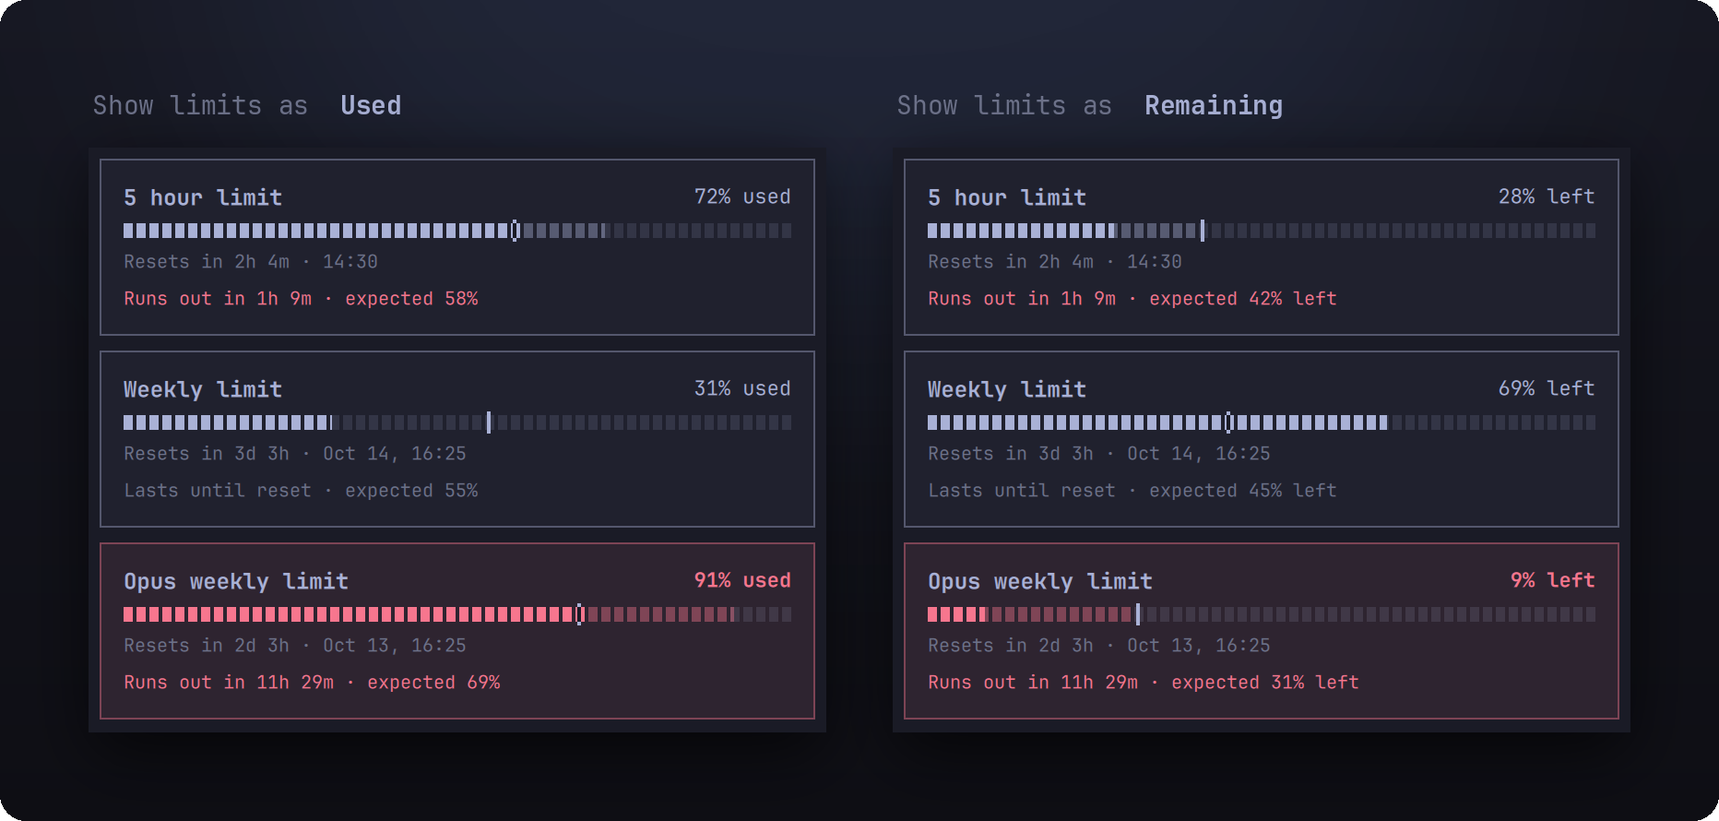
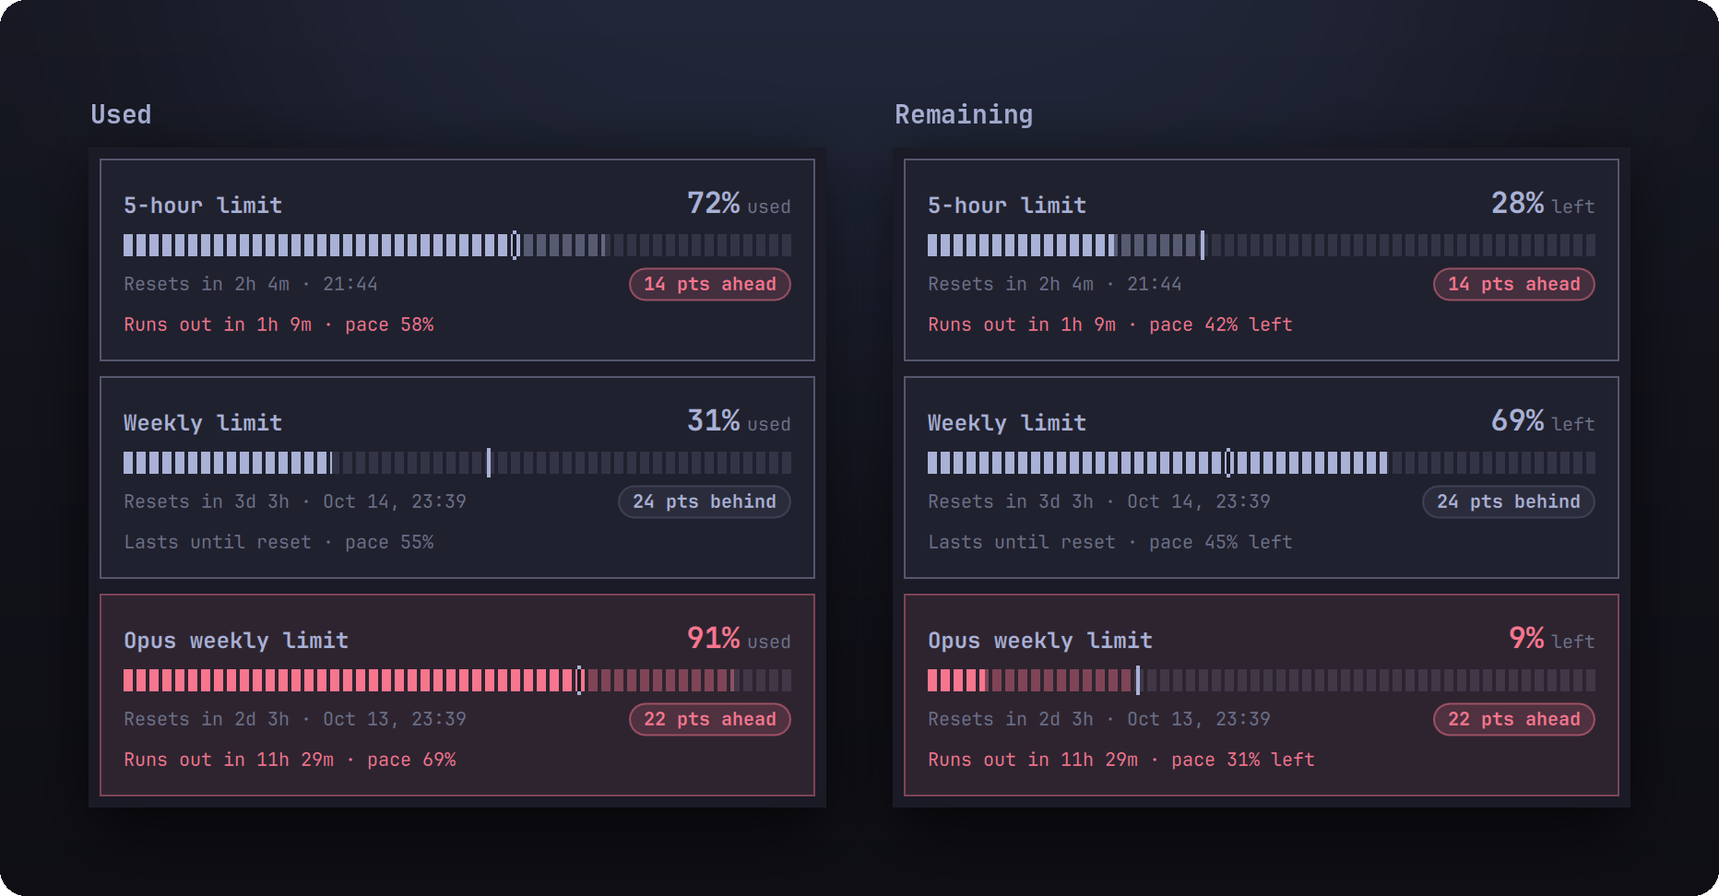
Preview: README rewritten for 1.5 with new artifacts

diff --git a/README.md b/README.md
@@ -2,29 +2,28 @@
 
 # Quotatank
 
-**Your AI coding limits in the Omarchy menu bar, each with a pace tick and a run-out time.**
+**Every AI coding limit you pay for, in the Omarchy menu bar: how much is left, when it comes back, and how long it lasts at your pace.**
 
 [![Release](https://img.shields.io/github/v/release/JanitorHead/omarchy-quotatank?label=release)](https://github.com/JanitorHead/omarchy-quotatank/releases) [![License: MIT](https://img.shields.io/github/license/JanitorHead/omarchy-quotatank)](LICENSE)
 
-[Install](#install) · [Limits and pace](#limits-and-pace) · [Accounts](#one-card-per-account) · [Menu bar](#menu-bar) · [Costs](#costs) · [Settings](#settings-and-privacy)
+[Install](#install) · [Limits and pace](#limits-and-pace) · [Balances](#balances-not-just-percentages) · [Menu bar](#menu-bar) · [Accounts](#one-card-per-account) · [Costs](#costs) · [Settings](#settings-that-apply-as-you-go)
 
 </div>
 
-![The Limits panel for Claude Code with three limit cards, beside the Costs tab with a 30-day chart, each opened from the same four menu bar chips](https://raw.githubusercontent.com/JanitorHead/omarchy-quotatank/main/docs/screenshots/hero.png)
+![Six provider chips in the menu bar with the Limits panel open below: Claude, Codex, Kimi, OpenCode, OpenRouter, and DeepSeek tiles, a headline that reads 5-hour limit runs out in 1h 9m, and three limit cards; beside it the Costs tab with a 30-day chart and the model breakdown](https://raw.githubusercontent.com/JanitorHead/omarchy-quotatank/main/docs/screenshots/hero.png)
 
-Quotatank reads the plan limits of Claude Code, OpenAI Codex, Kimi Code, and OpenCode Go from the CLIs you already signed in with, or from every account behind a Fusebox or CLIProxyAPI server. A second tab estimates what your recorded tokens would cost at API rates.
+Quotatank reads the plan limits of **Claude Code, OpenAI Codex, Kimi Code, and OpenCode Go** from the CLIs you already signed in with, the prepaid balances of **OpenRouter and DeepSeek** from an API key, or every account behind a **Fusebox or CLIProxyAPI** server. A second tab estimates what your recorded tokens would cost at API rates.
 
 <sub>Screenshots use fixture data in the Tokyo Night theme unless noted.</sub>
 
-## What sets it apart
+## Why it is different
 
-- **A run-out time, not just a percentage.** Each limit card projects from your recent rate: `Runs out in 1h 9m` when the limit would empty before it resets, `Lasts until reset` when it would not.
-- **A pace tick on the meter.** Once a card has enough recent samples, a tick marks where even use would put you by now. Use beyond the tick is shaded.
-- **Two limits and their reset times in each chip.** Stack a second limit under the first and show when each one resets.
-- **One card per account.** With Fusebox or CLIProxyAPI, each managed account gets its own card, with its own plan, percentage, and reset time.
-- **Used or remaining.** Read cards and chips as percent used or percent left. Alert thresholds keep their meaning either way.
-- **Alerts that re-arm.** A desktop notification fires when a limit crosses your warning or critical threshold, and again after it recovers or resets.
-- **API cost estimates by model.** Totals for 24 hours, 7 days, or 30 days from local Claude Code, Codex, and OpenCode history and up to four T3 Code servers.
+- **A run-out time, not just a percentage.** Each limit card projects from your recent rate: `Runs out in 1h 9m` when the limit would empty before it resets, `Lasts until reset` when it would not. One headline above the cards gives the answer for the whole provider.
+- **A pace tick on the meter.** A tick marks where even use would have put you by now; blocks past it are use ahead of pace, and a badge counts the points ahead or behind.
+- **Money where money is the limit.** OpenRouter and DeepSeek lead with what you can still spend, in their own currency, with low-balance alerts in amounts rather than percentages.
+- **Two limits and their reset times in each chip.** Stack a second limit under the first, show when each one resets, or hide a provider from the bar while its weekly limit is used up.
+- **Settings that apply as you make them.** No Save button: flip a switch and watch the bar change, then flip it back.
+- **Alerts that re-arm.** A desktop notification fires when a limit or a balance crosses your warning or critical threshold, and again after it recovers or resets.
 - **Private by default.** Accounts appear as Account 1, Account 2, and so on. Keys and tokens stay in private files, never in widget settings.
 
 ## Install
@@ -40,7 +39,7 @@ omarchy plugin update janitorhead.quotatank
 omarchy plugin remove janitorhead.quotatank
 ```
 
-The built-in `omarchy.agents` widget can run alongside Quotatank. To keep only Quotatank, run `omarchy plugin disable omarchy.agents`.
+The built-in `omarchy.agents` widget can run alongside Quotatank. To keep only Quotatank, run `omarchy plugin disable omarchy.agents`. To put the chips somewhere else in the bar, use `omarchy bar move janitorhead.quotatank left`.
 
 <details>
 <summary>Requirements</summary>
@@ -56,129 +55,141 @@ The built-in `omarchy.agents` widget can run alongside Quotatank. To keep only Q
 
 ![A 5-hour limit card with labels for usage so far, the pace tick, use ahead of pace, the reset countdown, and the projection](https://raw.githubusercontent.com/JanitorHead/omarchy-quotatank/main/docs/screenshots/card-anatomy.png)
 
-The tick marks where even use would be by now, so blocks past it are use ahead of pace. The status line projects from the recent rate, which weighs the newest samples most (a two-hour half-life), so use from days earlier does not count. Here the limit runs out in 1h 9m, before its window resets in 2h 4m.
+The tick marks where even use would be by now, so blocks past it are use ahead of pace. The status line projects from the recent rate, which weighs the newest samples most (a two-hour half-life), so use from days earlier does not count. Here the limit runs out in 1h 9m, before its window resets in 2h 4m. Cards are ordered shortest window first, and every provider names its windows the same way: `5-hour limit`, `Weekly limit`, `Monthly limit`.
 
 <details>
 <summary>Every status line</summary>
 
 | Status line | Meaning |
 |---|---|
-| `Runs out in 1h 9m · expected 58%` | At the recent rate, the limit empties before the window resets |
-| `Lasts until reset · expected 55%` | At the recent rate, the limit lasts until the window resets |
-| `Idle 1h 2m · expected 40%` | Usage has not risen for an hour, so no projection is made |
+| `Runs out in 1h 9m · pace 58%` | At the recent rate, the limit empties before the window resets |
+| `Lasts until reset · pace 55%` | At the recent rate, the limit lasts until the window resets |
+| `Idle 1h 2m · pace 40%` | Usage has not risen for an hour, so no projection is made |
 | `Collecting data` | Less than ten minutes of samples so far |
 | `No recent data` | The newest sample is more than an hour old |
-| `starts after 2% of the window` | Less than 2% of the window has passed |
-| `no usage yet` | Nothing has been used in this window |
+| `Pace starts after 2% of the window` | Less than 2% of the window has passed |
+| `No usage yet` | Nothing has been used in this window |
 | `Limit reached` | The limit is 100% used |
-| `not reported` | The provider reports no window length or reset time, so there is no pace |
+| `No pace for this limit` | The provider reports no window length or reset time |
 
 </details>
 
 ![The same three limit cards read as percent used on the left and as percent left on the right](https://raw.githubusercontent.com/JanitorHead/omarchy-quotatank/main/docs/screenshots/used-remaining.png)
 
-**Show limits as** flips every card and chip between percent used and percent left. The meter, the tick, and the expected share follow the setting. Warning and critical thresholds are stored as percent left, 25% and 10% by default, so the Opus limit is critical at 9% left whichever way you read it.
+**Show limits as** flips every card, chip, and balance between used and left. The meter, the tick, and the pace share follow the setting. Warning and critical thresholds are stored as percent left, 25% and 10% by default, so the Opus limit is critical at 9% left whichever way you read it.
 
-**Alerts.** With **Notify when limits run low** on, a desktop notification fires once when a limit moves into warning or critical; critical alerts use critical urgency. When the limit recovers or its window resets, the next crossing notifies again.
+![Three panels: Codex with the headline Weekly limit is used up, back in 5d 10h; OpenCode Go with a sign-in expired card that quotes the command to run; DeepSeek with a drained balance and the notice that the platform is refusing calls](https://raw.githubusercontent.com/JanitorHead/omarchy-quotatank/main/docs/screenshots/states.png)
+
+When something is wrong, the panel says what and what to do: a used-up limit names when it comes back, a failed refresh names the command to run, and a drained balance says it needs topping up. The chip in the bar shows a short reason instead of a figure (`sign in`, `rate limited`, `offline`), and hovering it gives the full message.
+
+## Balances, not just percentages
+
+![OpenRouter's panel with a $74.00 left headline, a Balance card listing purchased, used, and this week's spend, and a monthly key limit card; beside it DeepSeek's panel with a $12.50 balance and its granted and topped-up amounts](https://raw.githubusercontent.com/JanitorHead/omarchy-quotatank/main/docs/screenshots/balance.png)
+
+OpenRouter and DeepSeek are prepaid, so their figure is money: what the account can still spend, which for OpenRouter is the lowest of the balance and every spending limit's allowance. The headline adds how long it lasts at this week's rate (`$74.00 left · lasts about 8 weeks`), OpenRouter's limits that reset become ordinary limit cards with a pace, and a CNY-only DeepSeek account shows yuan. **Low balance** alerts are amounts in the balance's currency, `5` and `1` by default.
+
+## Menu bar
+
+![Six rows of the same six menu bar chips: most constrained, pinned to 7 days, two stacked limits, two limits with reset times and dates, provider brand colors, and the row with Codex hidden because its weekly limit is used up](https://raw.githubusercontent.com/JanitorHead/omarchy-quotatank/main/docs/screenshots/menu-bar.png)
+
+- **Limit shown** picks the window every chip shows. The default is each provider's most constrained limit; 5-hour, 7-day, and monthly pin one window. Every line is tagged with the period of the limit it shows (`7d 91%`), so the tag never lies about what is behind the number.
+- **Second limit below** stacks a second limit under the first.
+- **Show when limits reset** appends when each line resets: a time for limits that reset within a day, a date for weekly and monthly ones, in the formats you choose.
+- **Hide providers that are used up** takes a provider out of the bar while one of its weekly or monthly limits is used up; it returns when the limit resets, and Limits keeps showing it.
+- **Provider colors** paints each chip and limit meter in the provider's brand color.
+
+Money providers lead with their balance and stack their tightest limit below. The top and bottom limits can also be set for a single provider under **Menu bar → Per provider**. Clicking a chip opens that provider.
+
+A chip switches to the Omarchy theme's alert color when either of its lines is at warning or critical, and keeps it with provider colors on, so a brand color never hides an alert. Quotatank has no red of its own: the color comes from the theme.
 
 ## One card per account
 
 ![Three OpenAI Codex accounts from CLIProxyAPI, each on its own card with plan, weekly limit, reset time, and banked resets; an arrow leads from the first account's 2 banked resets badge to the confirmation it opens](https://raw.githubusercontent.com/JanitorHead/omarchy-quotatank/main/docs/screenshots/accounts.png)
 
-With Fusebox or CLIProxyAPI as the quota source, every managed account gets its own card with its own plan, percentage, and reset time. Each card shows the account's weekly limit when it reports one; **Additional limits** opens the others.
+With Fusebox or CLIProxyAPI as the source, every managed account gets its own card with its own plan, percentage, and reset time. Each card shows the account's weekly limit when it reports one; **Additional limits** opens the others.
 
 In CLIProxyAPI mode, Codex cards show how many banked resets the account holds. A banked reset resets that account's current Codex usage limits and is spent once applied, so clicking a nonzero badge opens a confirmation first. It lists each reset with its expiry, selects the one expiring soonest, and applies nothing until you choose **Apply reset**.
-
-## Menu bar
-
-![Five rows of the same four menu bar chips: most constrained, pinned to 7 days, two stacked limits, two limits with reset times and dates, and provider brand colors](https://raw.githubusercontent.com/JanitorHead/omarchy-quotatank/main/docs/screenshots/menu-bar.png)
-
-- **Menu bar limit** picks the window every chip shows. The default is each provider's most constrained limit; 5-hour, 7-day, and monthly pin one window and tag the chip with its period. A provider that does not report the pinned window shows its most constrained limit, tagged with that limit's own period.
-- **Menu bar limit (bottom)** stacks a second limit under the first.
-- **Show reset day in menu bar** appends when each line resets: a time for limits that reset within a day, a date for weekly and monthly ones. Both formats are configurable.
-- **Provider colors** paints each chip and limit meter in the provider's brand color.
-
-The top and bottom limits can also be set for a single provider under **Menu bar limits per provider**. Clicking a chip opens that provider.
-
-A chip switches to the Omarchy theme's alert color when either of its lines is at warning or critical, and keeps it with provider colors on, so a brand color never hides an alert. Quotatank has no red of its own: the color comes from the theme (its `red` entry by default), so it is red in the themes shown here and follows whatever color your theme uses.
 
 ## Follows your theme
 
 ![The top of the Limits panel and its menu bar chips in the Gruvbox, Nord, Kanagawa, and Catppuccin Latte themes](https://raw.githubusercontent.com/JanitorHead/omarchy-quotatank/main/docs/screenshots/themes.png)
 
-Colors and control borders come from the active Omarchy theme and change with it; text uses your Omarchy font. Cards are square by default; turn off **Square usage cards** to follow the theme's corners.
+Colors and control borders come from the active Omarchy theme and change with it; text uses your Omarchy font, and every provider mark is the real brand mark at one size. Cards are square by default; turn off **Square cards** to follow the theme's corners.
 
 ## Costs
 
-![The Costs tab with a 30-day chart, totals by provider, and the model breakdown, beside Costs settings with local history, two T3 servers, and a custom price for one model](https://raw.githubusercontent.com/JanitorHead/omarchy-quotatank/main/docs/screenshots/costs.png)
+![The Costs tab with a 30-day chart, totals by provider, and the model breakdown, beside the Costs settings page with local history, two T3 servers, and custom prices](https://raw.githubusercontent.com/JanitorHead/omarchy-quotatank/main/docs/screenshots/costs.png)
 
 Costs estimates what your recorded tokens would cost at API rates. It is not a bill, a subscription charge, or a credit balance. Pick 24 hours, 7 days, or 30 days, then open token details or the model breakdown, which lists every model with its provider, tokens, and estimate.
 
 Local Claude Code and Codex history are on by default, OpenCode can be added, and up to four T3 Code servers bring in history from other computers. Prices come from the public LiteLLM table. Under **Custom prices**, set input, output, and optional cache prices in USD per million tokens for an exact model ID.
 
-## Settings and privacy
+## Settings that apply as you go
 
-<p align="center">
-  <img src="https://raw.githubusercontent.com/JanitorHead/omarchy-quotatank/main/docs/screenshots/settings.png" width="512" alt="Provider switches with OpenCode Go monitored but kept out of the menu bar, so the bar above shows three chips">
-</p>
+![The settings index with six rows and what each is set to, beside the Providers page with Monitor and Menu bar switches and the saved API keys for OpenRouter and DeepSeek, and the Menu bar page](https://raw.githubusercontent.com/JanitorHead/omarchy-quotatank/main/docs/screenshots/settings.png)
 
-Each provider has two switches: **Monitor** fetches it and shows it in Limits, **Menu bar** shows its chip. Here OpenCode Go stays in the panel and out of the bar. In Fusebox or CLIProxyAPI mode every discovered provider is monitored, and only the **Menu bar** column remains.
+The gear opens an index of six pages, and each row already says what the page is set to. There is no Save button: every switch, selector, and valid number applies the moment it changes, so you can compare the bar with the setting still in front of you. Keys and tokens are the exception, with an explicit **Save** that writes a private file, after which the page shows **Replace** and **Remove**.
 
-<details>
-<summary>Main settings</summary>
-
-| Setting | Default | What it controls |
-|---|---|---|
-| Refresh interval (`refreshIntervalSec`) | 15 minutes | Automatic refresh, from 1 to 60 minutes. Manual refresh is always available |
-| Show limits as (`quotaMode`) | Used | Whether cards and chips report percent used or percent left. Alerts follow the same choice |
-| Warning and critical thresholds | 25% and 10% left | Stored as percent left; the settings show percent used under Used |
-| Notify when limits run low (`notifyLimitThresholds`) | On | Desktop notifications when a limit reaches a threshold |
-| Hide account emails (`hideAccountEmails`) | On | Numbered labels (Account 1, Account 2) on cards and tooltips; identities are also omitted from settings |
-| Square usage cards (`squareUsageCards`) | On | Square corners. Off follows the theme's corners |
-| Provider colors (`providerColors`) | Off | Brand colors on chips and limit meters |
-| Menu bar limit (`barWindow`) | Most constrained | The window a chip shows: most constrained, 5-hour, 7-day, or monthly |
-| Menu bar limit, bottom (`barWindowSecondary`) | None | Stacks a second limit under the first in each chip |
-| Show reset day in menu bar (`barShowResets`) | Off | Shows the reset time for limits that reset within a day and the date for weekly and monthly limits |
-| Local cost sources (`costLocalProviders`) | Claude Code, Codex | Local transcript history for Costs. OpenCode is also available |
-| T3 servers (`costT3Servers`) | None | Up to four servers, configured under Costs settings |
+| Page | What lives there |
+|---|---|
+| **Providers** | The source (local sign-ins or a Fusebox / CLIProxyAPI server), one row per provider with **Monitor** and **Menu bar** switches, and the API key editor under OpenRouter and DeepSeek |
+| **Menu bar** | Chips or the widget icon, the limit each chip shows, a second limit, reset times and formats, hiding used-up providers, per-provider overrides |
+| **Alerts** | Desktop notifications, the percentage thresholds, and the low-balance amounts |
+| **Display** | Used or left, provider colors, square cards, hidden account emails |
+| **Costs** | Local history, T3 servers, custom prices, and the last scan |
+| **Advanced** | Refresh interval (1 to 60 minutes) and diagnostics |
 
 Every key is listed in the [settings reference](https://github.com/JanitorHead/omarchy-quotatank/blob/main/docs/configuration.md#settings).
-
-</details>
 
 Privacy:
 
 - Quotatank reads existing CLI sign-ins and does not write authentication state. Quota checks are read-only.
 - Applying a banked Codex reset is a separate action in CLIProxyAPI mode, and it asks for confirmation first.
-- Management keys and T3 tokens are saved in private files (`0600`, in a `0700` directory), never in widget settings or command-line arguments.
+- API keys, management keys, and T3 tokens are saved in private files (`0600`, in a `0700` directory), never in widget settings or command-line arguments. **Remove** deletes the file.
 - Cost history stores token counts, timestamps, model names, and hashed transcript identifiers. It never stores prompts, responses, or tool output.
-- HTTPS certificates are verified for the CLIProxyAPI server, and redirects are rejected.
+- HTTPS certificates are verified, and redirects are rejected.
 
 ## Connect a source
 
 Limits and Costs have separate sources. A proxy can supply Limits while local transcripts supply Costs.
 
+```mermaid
+flowchart LR
+  subgraph Limits
+    cli["CLI sign-ins<br/>claude · codex · kimi · opencode"] --> uf["usage-fetch.py"]
+    keys["API keys<br/>OpenRouter · DeepSeek"] --> uf
+    proxy["Fusebox / CLIProxyAPI<br/>one card per account"] --> uf
+    uf --> chips["Menu bar chips"]
+    uf --> panel["Limits tab"]
+  end
+  subgraph Costs
+    logs["Local transcripts<br/>Claude Code · Codex · OpenCode"] --> cf["cost-fetch.py"]
+    t3["T3 Code servers"] --> cf
+    cf --> costs["Costs tab"]
+  end
+```
+
 ### Local CLI sign-ins
 
-Sign in with each provider's CLI. Then open **Limits → gear**, keep **Local CLIs** as the quota source, choose the providers to monitor, and save.
+Sign in with each provider's CLI. Then open **Settings → Providers**, keep **Local sign-ins** as the source, and turn on **Monitor** for the providers you use.
 
-| Provider | Sign in | Quota source |
+| Provider | Connect with | Read from |
 |---|---|---|
 | Claude Code | `claude auth login` | Claude OAuth usage endpoint |
 | OpenAI Codex | `codex login` | Codex app-server rate-limit RPC |
 | Kimi Code | `kimi login` | Kimi usage endpoint |
 | OpenCode Go | `opencode auth login` | OpenCode Go usage endpoint, using `OPENCODE_GO_API_KEY` or the key the OpenCode CLI stored |
+| OpenRouter | An API key saved under its switch, or `OPENROUTER_API_KEY` | `GET /api/v1/key` and `GET /api/v1/credits`: the key's limits, the balance, and spend |
+| DeepSeek | An API key saved under its switch, or `DEEPSEEK_API_KEY` | `GET /user/balance`: the platform balance per currency |
 
 Quotatank reads existing CLI credentials and does not write authentication state. Sign-in stays with the CLI. See the [configuration reference](https://github.com/JanitorHead/omarchy-quotatank/blob/main/docs/configuration.md#providers-and-authentication) for details.
 
-When a provider's refresh fails, its chip shows a short reason instead of a figure: `rate limited`, `sign in`, `timeout`, `offline`, `bad data`, or `error`. Hover the chip for the full message and the next step.
-
 ### Fusebox or CLIProxyAPI
 
-1. Open **Limits → gear** and choose the Fusebox or CLIProxyAPI option under **Quota source**.
-2. Enter the server URL, for example `http://127.0.0.1:8317`.
-3. Enter the Management API key that the server's management panel accepts. Client API keys and bcrypt hashes do not work.
-4. Save. Managed accounts are discovered automatically, one card each.
+1. Open **Settings → Providers** and choose **Fusebox / CLIProxyAPI** under **Source**.
+2. Enter the server URL, for example `http://127.0.0.1:8317`, and leave the field.
+3. Enter the Management API key that the server's management panel accepts and press **Save**. Client API keys and bcrypt hashes do not work.
+4. Managed accounts are discovered automatically, one card each.
 
 The key is saved to a private file (`0600`) and is never loaded back into the form. Remote servers must allow remote management. Quota lookups cover Claude, Codex, Kimi, and Antigravity accounts; other providers show an unsupported notice.
 
@@ -186,7 +197,7 @@ For CLIProxyAPI, the optional CPA Usage Keeper adds the last-used account to the
 
 ### Cost history
 
-Open **Costs → gear**. Local Codex CLI and Claude Code history are on by default. Add up to four T3 Code servers, each with a name, base URL, and connection token. Servers must use usage contract version 4 or 5. Custom model prices are set in the same panel, by exact model ID.
+Open **Settings → Costs**. Local Codex CLI and Claude Code history are on by default. Add up to four T3 Code servers, each with a name, base URL, and connection token. Servers must use usage contract version 4 or 5. Custom model prices are set on the same page, by exact model ID.
 
 ## Controls
 
@@ -198,7 +209,7 @@ Open **Costs → gear**. Local Codex CLI and Claude Code history are on by defau
 | Refresh | `r` |
 | Costs metric, token details, model breakdown | `m`, `d`, `b` |
 | Settings | `s` |
-| Cancel an edit or close a confirmation | Escape |
+| Back to the settings index, then close | Escape |
 
 Scripts and keybindings can use the shell IPC:
 
